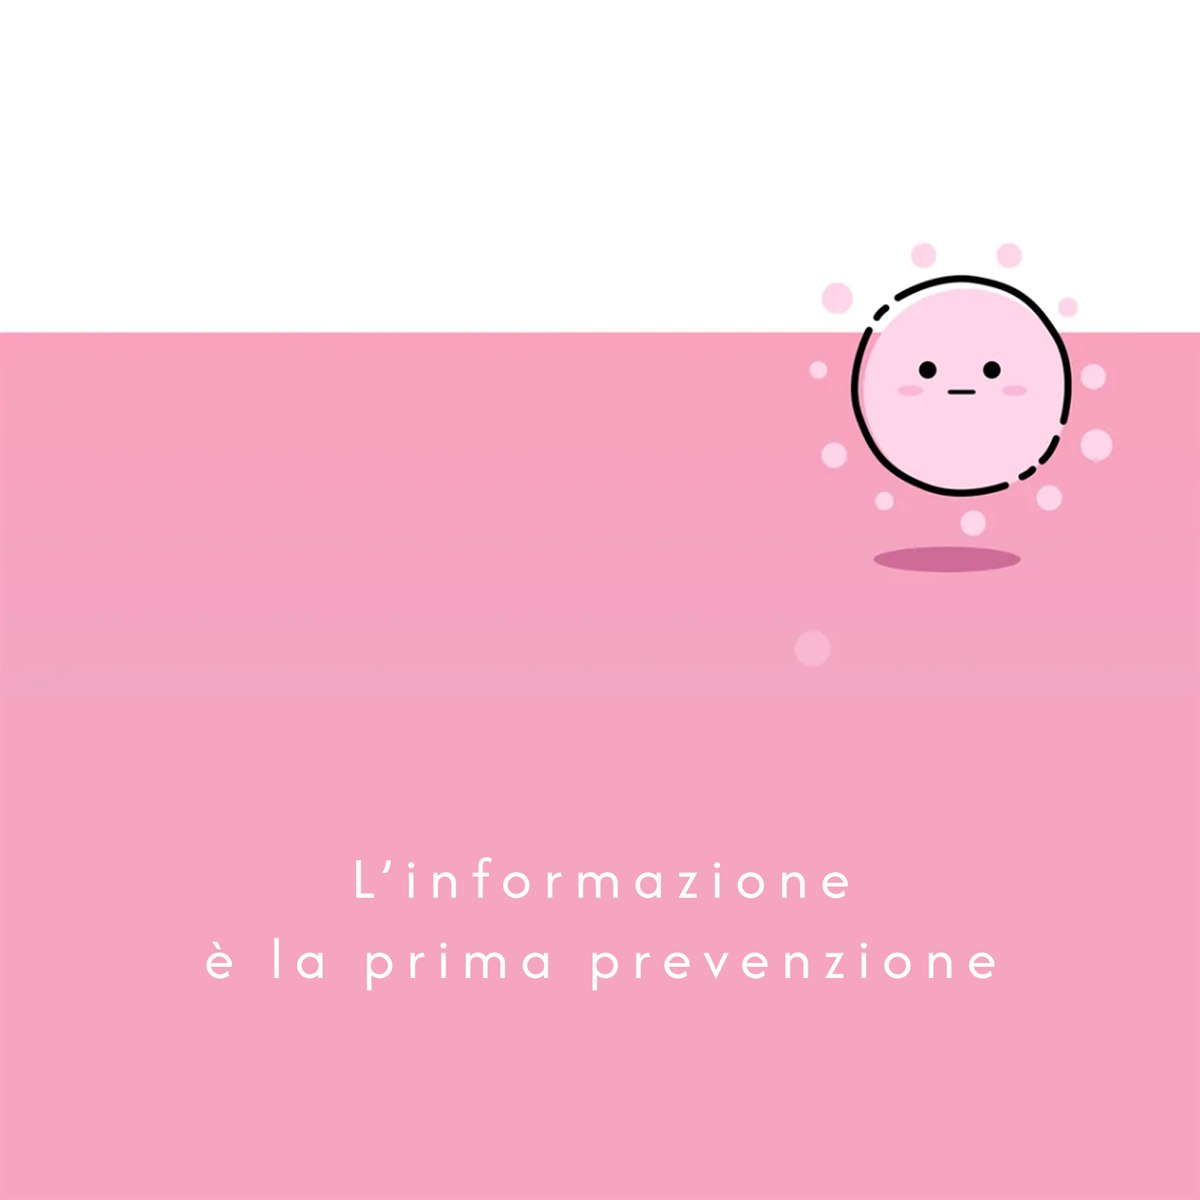
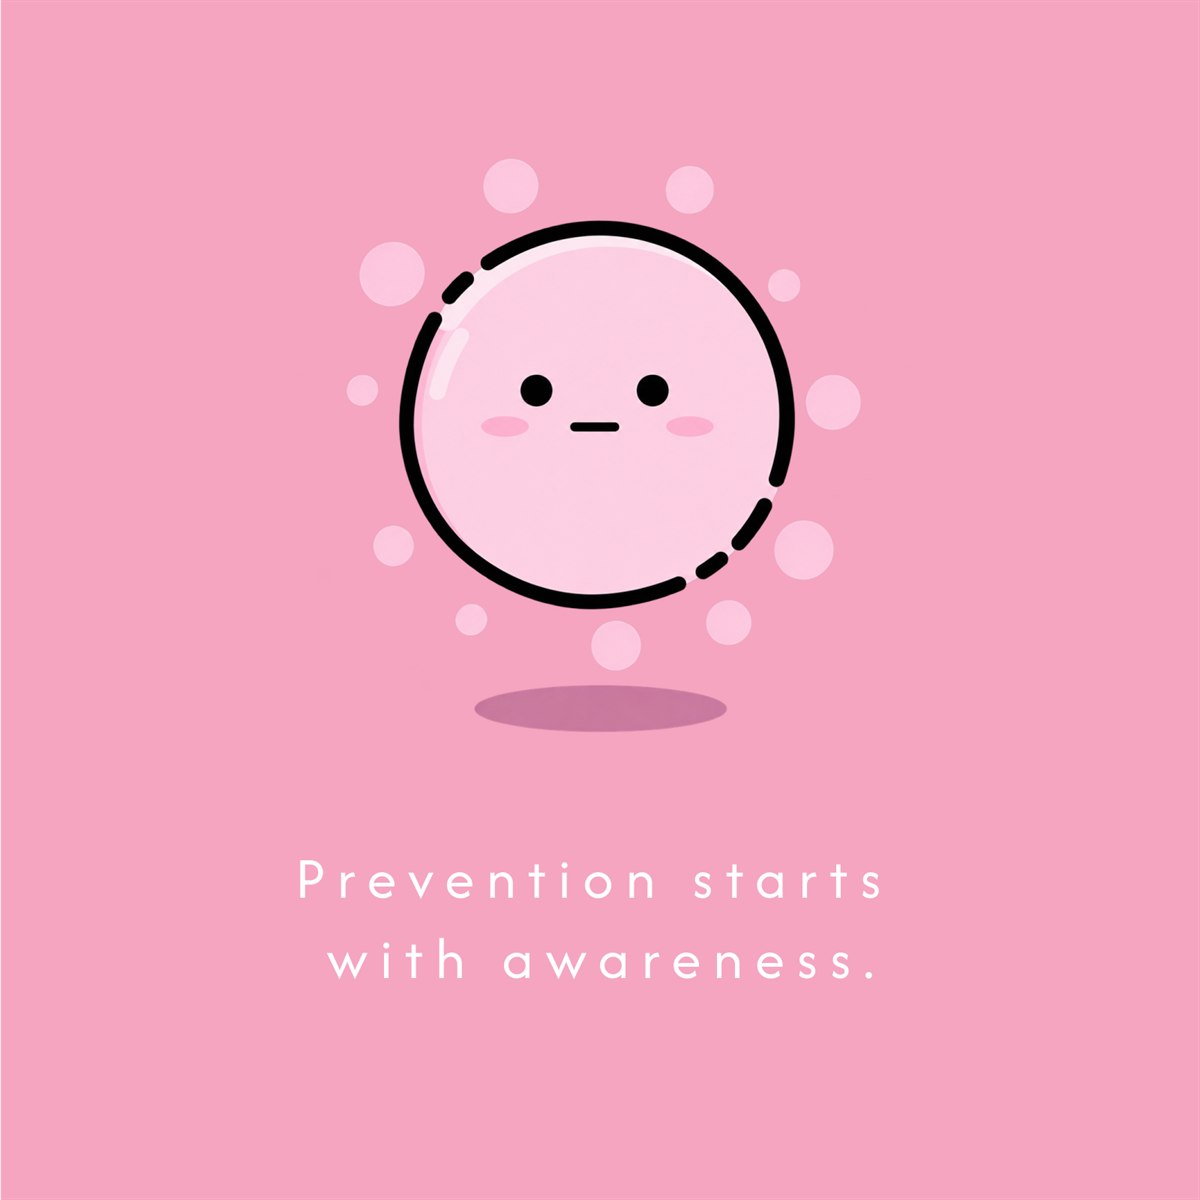
New Magic Kinder and CMV tiles, and one screen out
- Both tiles redrawn: Kinder leads with the mark and the mascot instead of a
  screenshot collage, CMV with the character on a full pink ground.
- Magic Kinder loses the Hub "Play & Learn" screen. The zoom gallery is indexed
  by position, so every index after it shifts down one; the line above the
  strip no longer promises a Hub screen that is not there.

diff --git a/index.html b/index.html
@@ -2734,13 +2734,12 @@ body{overflow-x:clip;}
   <section class="sec">
     <span class="ey">The screens</span>
     <h2 class="st">Games, videos, stories, surprises.</h2>
-    <p style="font-size:14px;color:var(--slate);line-height:1.7;max-width:900px;margin-bottom:8px;">The Hub app and the mobile site share one universe. Scroll the strip sideways, browse inside each mockup, click to zoom.</p>
+    <p style="font-size:14px;color:var(--slate);line-height:1.7;max-width:900px;margin-bottom:8px;">The mobile site and the app share one universe. Scroll the strip sideways, browse inside each mockup, click to zoom.</p>
     <div class="hmscreens-wrap">
       <div class="lg-arch hmscreens mkscreens" id="mkScreens" tabindex="0" role="region" aria-label="Magic Kinder screens, scroll horizontally to browse">
-        <figure class="hmshot new hmscreen"><div class="hmshot-bar"><span class="hmshot-t">Hub · Play &amp; Learn</span><span class="hmshot-pill">Games gallery, play together</span></div><div class="mock-scroll" data-lenis-prevent><img src="assets/legacy/mk-hub-play.webp" width="1600" height="1200" alt="Magic Kinder Hub Play and Learn section on tablet: games gallery with Magic Kinder Challenge, Bubble Rescue and Magic Brain" loading="lazy" decoding="async" onclick="mkZoom(0)"></div></figure>
-        <figure class="hmshot new hmscreen"><div class="hmshot-bar"><span class="hmshot-t">Mobile site · Home</span><span class="hmshot-pill">Games, videos and stories worlds</span></div><div class="mock-scroll" data-lenis-prevent><img src="assets/legacy/mk-ipad-home.webp" width="1024" height="3451" alt="Magic Kinder mobile site home on tablet: licensed content carousel, surprise toys strip, games, videos and stories sections, kidSAFE COPPA certified footer" loading="lazy" decoding="async" onclick="mkZoom(1)"></div></figure>
-        <figure class="hmshot new hmscreen"><div class="hmshot-bar"><span class="hmshot-t">Mobile site · Game detail</span><span class="hmshot-pill">Play, then discover more</span></div><div class="mock-scroll" data-lenis-prevent><img src="assets/legacy/mk-ipad-game.webp" width="1024" height="2664" alt="Magic Kinder game detail page with hero, description, app cross-promotion and other games" loading="lazy" decoding="async" onclick="mkZoom(2)"></div></figure>
-        <figure class="hmshot new hmscreen"><div class="hmshot-bar"><span class="hmshot-t">Il Sorpresario</span><span class="hmshot-pill">The surprise toys, digital</span></div><div class="mock-scroll" data-lenis-prevent><img src="assets/legacy/mk-ipad-sorpresario.webp" width="1024" height="1401" alt="Il Sorpresario: the digital catalogue of Kinder surprise toys by collection, Youmitik, Mixart and Natoons" loading="lazy" decoding="async" onclick="mkZoom(3)"></div></figure>
+        <figure class="hmshot new hmscreen"><div class="hmshot-bar"><span class="hmshot-t">Mobile site · Home</span><span class="hmshot-pill">Games, videos and stories worlds</span></div><div class="mock-scroll" data-lenis-prevent><img src="assets/legacy/mk-ipad-home.webp" width="1024" height="3451" alt="Magic Kinder mobile site home on tablet: licensed content carousel, surprise toys strip, games, videos and stories sections, kidSAFE COPPA certified footer" loading="lazy" decoding="async" onclick="mkZoom(0)"></div></figure>
+        <figure class="hmshot new hmscreen"><div class="hmshot-bar"><span class="hmshot-t">Mobile site · Game detail</span><span class="hmshot-pill">Play, then discover more</span></div><div class="mock-scroll" data-lenis-prevent><img src="assets/legacy/mk-ipad-game.webp" width="1024" height="2664" alt="Magic Kinder game detail page with hero, description, app cross-promotion and other games" loading="lazy" decoding="async" onclick="mkZoom(1)"></div></figure>
+        <figure class="hmshot new hmscreen"><div class="hmshot-bar"><span class="hmshot-t">Il Sorpresario</span><span class="hmshot-pill">The surprise toys, digital</span></div><div class="mock-scroll" data-lenis-prevent><img src="assets/legacy/mk-ipad-sorpresario.webp" width="1024" height="1401" alt="Il Sorpresario: the digital catalogue of Kinder surprise toys by collection, Youmitik, Mixart and Natoons" loading="lazy" decoding="async" onclick="mkZoom(2)"></div></figure>
       </div>
       <div class="hmscreens-bar"><span class="hmscreens-hint">Scroll, drag or use the arrows to explore &rarr;</span><div class="hmscreens-nav"><button class="hmscreens-btn" type="button" aria-label="Previous screen" onclick="lgScroll(-1,'mkScreens')">&larr;</button><button class="hmscreens-btn" type="button" aria-label="Next screen" onclick="lgScroll(1,'mkScreens')">&rarr;</button></div></div>
       <p class="hm-disc" style="justify-content:center;"><svg width="13" height="13" viewBox="0 0 13 13" fill="none"><circle cx="6.5" cy="6.5" r="5.6" stroke="currentColor" stroke-width="1.1"/><path d="M6.5 5.6v3.2M6.5 4.1v.05" stroke="currentColor" stroke-width="1.3" stroke-linecap="round"/></svg><span><b>Attribution.</b> Work produced in my role at Reply for Ferrero. Screens show the interface design as delivered; licensed characters belong to their respective owners.</span></p>
@@ -2752,9 +2751,9 @@ body{overflow-x:clip;}
     <h2 class="st">The same worlds, in a kid's pocket.</h2>
     <p style="font-size:14px;color:var(--slate);line-height:1.7;max-width:900px;margin-bottom:8px;">The mobile site brings the full universe to any phone: content worlds by colour, story and video detail pages, and the app always one tap away.</p>
     <div class="pp-phones">
-      <div class="pp-phonebox"><div class="pp-phone" onclick="mkZoom(4)"><div class="phone-scroll" data-lenis-prevent><img src="assets/legacy/mk-m-home.webp" alt="Magic Kinder mobile home: licensed carousel, games, videos and stories worlds" loading="lazy" decoding="async"></div></div><p class="pp-phone-cap">Mobile home</p></div>
-      <div class="pp-phonebox"><div class="pp-phone" onclick="mkZoom(5)"><div class="phone-scroll" data-lenis-prevent><img src="assets/legacy/mk-m-stories.webp" alt="Magic Kinder story detail: Infinimix Safari Story with description and other stories" loading="lazy" decoding="async"></div></div><p class="pp-phone-cap">Story detail</p></div>
-      <div class="pp-phonebox"><div class="pp-phone" onclick="mkZoom(6)"><div class="phone-scroll" data-lenis-prevent><img src="assets/legacy/mk-m-video.webp" alt="Magic Kinder video player page: Care Bears episode with player controls and other videos" loading="lazy" decoding="async"></div></div><p class="pp-phone-cap">Video player</p></div>
+      <div class="pp-phonebox"><div class="pp-phone" onclick="mkZoom(3)"><div class="phone-scroll" data-lenis-prevent><img src="assets/legacy/mk-m-home.webp" alt="Magic Kinder mobile home: licensed carousel, games, videos and stories worlds" loading="lazy" decoding="async"></div></div><p class="pp-phone-cap">Mobile home</p></div>
+      <div class="pp-phonebox"><div class="pp-phone" onclick="mkZoom(4)"><div class="phone-scroll" data-lenis-prevent><img src="assets/legacy/mk-m-stories.webp" alt="Magic Kinder story detail: Infinimix Safari Story with description and other stories" loading="lazy" decoding="async"></div></div><p class="pp-phone-cap">Story detail</p></div>
+      <div class="pp-phonebox"><div class="pp-phone" onclick="mkZoom(5)"><div class="phone-scroll" data-lenis-prevent><img src="assets/legacy/mk-m-video.webp" alt="Magic Kinder video player page: Care Bears episode with player controls and other videos" loading="lazy" decoding="async"></div></div><p class="pp-phone-cap">Video player</p></div>
     </div>
   </section>
 
@@ -3110,7 +3109,6 @@ var GR_FIELD=[
 function grField(i){jvGallery(GR_FIELD.map(function(s){return{src:s.src,label:s.label,alt:s.label};}),i);}
 /* Ferrero Magic Kinder gallery */
 var MK_SHOTS=[
-  {src:'assets/legacy/mk-hub-play.webp',label:'Hub app, Play and Learn'},
   {src:'assets/legacy/mk-ipad-home.webp',label:'Mobile site, home'},
   {src:'assets/legacy/mk-ipad-game.webp',label:'Mobile site, game detail'},
   {src:'assets/legacy/mk-ipad-sorpresario.webp',label:'Il Sorpresario, the digital surprise catalogue'},
